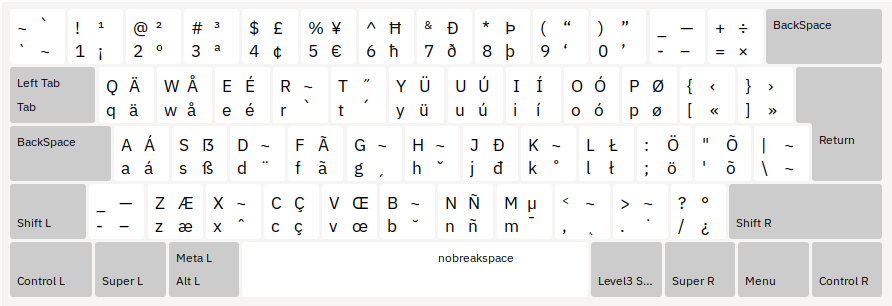
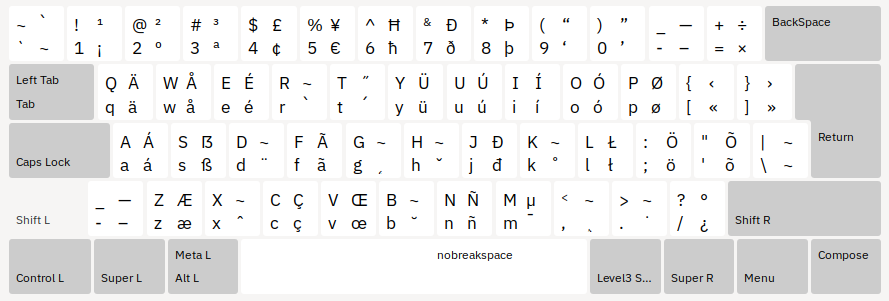
feat: caps key back to capslock
I understand the colemak argument that caps is easier to reach
than the backspace keys, but it is not the objective of this
layout.

diff --git a/README.md b/README.md
@@ -96,6 +96,8 @@ The dead keys are in easy to remember positions:
 
 More information about [Colemak multilingual support here](https://colemak.com/Multilingual).
 
+The <xkb>CAPS</xkb> key keeps being CAPSLOCK.
+
 ## Installation
 
 ### On Linux
